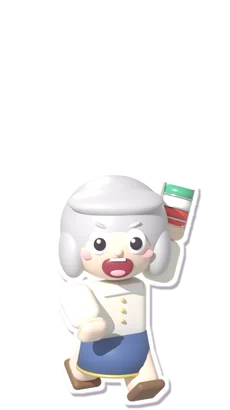
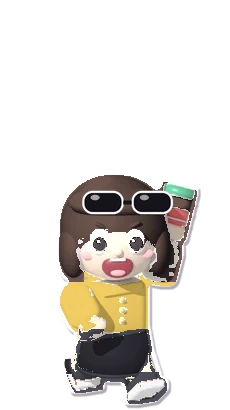
ป้าจิตร new look (dark hair, sunglasses up, yellow top, black trousers, white sneakers) + gag 12: she chases พี่เอิร์ธ in a red hatchback (preview ?jit=12)
Owner, 12 Nov 2026. Sprites recoloured locally (scripts/looks/jit_update.py); originals kept in scripts/looks/src/jit/.

Claude-Session: https://claude.ai/code/session_015Jf9R3gk28LtjQ9xD8o5vB

Changed region(s): [[0.2435, 0.4098, 0.8522, 0.9951]]

diff --git a/src/app/monitor/tv-gags.ts b/src/app/monitor/tv-gags.ts
@@ -2,14 +2,16 @@
 // @ts-nocheck — ported as-is from the approved prototype (scratchpad gags2.html,
 // owner 4 Nov 2026); plain DOM + GSAP, nothing typed flows in or out.
 //
-// พี่เอิร์ธ × ป้าจิตร (ภรรยาการ์ตูน, ปั้นใน Blender) — 11 แก็กพ่อบ้านใจกล้า แต่กลัวเมีย.
+// พี่เอิร์ธ × ป้าจิตร (ภรรยาการ์ตูน, ปั้นใน Blender) — 12 แก็กพ่อบ้านใจกล้า แต่กลัวเมีย.
+// 12 Nov 2026 (owner): ป้าจิตร's new look from a photo (scripts/looks/jit_update.py) and
+// gag 12 — she chases him in her red hatchback ("ขับรถตามได้บ้างนะ แกขับ swift แดง").
 // TvCast slots one in after every 4 ordinary antics; shuffled, no repeat until all 11
 // have played; gag 4 (จูงกลับบ้าน) only after 16:00. Works on a 1920×1080 stage
 // scaled to the screen.
 
 import gsap from "gsap";
 
-export const GAG_COUNT = 11;
+export const GAG_COUNT = 12;
 export const GAG_HOME_TIME = 3; // จูงกลับบ้าน
 export const EARTH_ID = "00000000-0000-0000-0000-000000000502";
 const TEAM_IDS = { cook: "00000000-0000-0000-0000-000000000503", pang: "00000000-0000-0000-0000-000000000505", nat: "00000000-0000-0000-0000-000000000504" };
@@ -45,6 +47,8 @@ const follow=(e,t,dx,dy)=>follows.push([e,t,dx,dy]);
 const tick=()=>follows.forEach(([e,t,dx,dy])=>gsap.set(e,{x:gsap.getProperty(t,'x')+dx,y:gsap.getProperty(t,'y')+dy}));
 gsap.ticker.add(tick);
 const BANG=`<svg viewBox="0 0 100 100" width="110" height="110"><polygon points="50,2 61,32 95,22 72,48 98,70 64,68 66,98 48,74 26,96 30,66 2,62 30,46 10,16 40,30" fill="#ffd36b" stroke="#1b1024" stroke-width="5" stroke-linejoin="round"/><text x="50" y="62" text-anchor="middle" font-size="38" font-weight="900" fill="#1b1024">!!</text></svg>`;
+// The red hatchback (drawn here, no badge): ป้าจิตร at the wheel behind the front window.
+const CAR=`<img class="drv" src="${JFACE}" alt=""><svg viewBox="0 0 600 260" width="600" height="260"><ellipse cx="305" cy="250" rx="270" ry="10" fill="rgba(0,0,0,.25)"/><path fill-rule="evenodd" fill="#d8232f" stroke="#1b1024" stroke-width="6" stroke-linejoin="round" d="M30,200 L30,150 Q34,118 72,112 L155,110 L212,38 Q222,28 242,28 L408,28 Q436,28 456,46 L512,110 Q574,118 586,148 L588,196 Q588,208 576,208 L42,208 Q30,208 30,200 Z M168,110 L224,40 L300,40 L300,110 Z M314,40 L402,40 Q424,40 440,56 L486,110 L314,110 Z"/><path d="M168,110 L224,40 L300,40 L300,110 Z M314,40 L402,40 Q424,40 440,56 L486,110 L314,110 Z" fill="rgba(170,215,255,.28)" stroke="#1b1024" stroke-width="5" stroke-linejoin="round"/><path d="M60,120 Q300,104 560,124" fill="none" stroke="rgba(255,255,255,.45)" stroke-width="6" stroke-linecap="round"/><path d="M306,112 L306,196 M168,112 L172,196" stroke="#1b1024" stroke-width="4" fill="none"/><rect x="330" y="128" width="34" height="9" rx="4" fill="#1b1024"/><rect x="190" y="128" width="30" height="9" rx="4" fill="#1b1024"/><path d="M478,104 L506,96 L512,112 Z" fill="#d8232f" stroke="#1b1024" stroke-width="4"/><ellipse cx="566" cy="140" rx="16" ry="12" fill="#fff6c8" stroke="#1b1024" stroke-width="4"/><rect x="30" y="128" width="16" height="26" rx="5" fill="#8a0f18" stroke="#1b1024" stroke-width="4"/><rect x="40" y="186" width="540" height="12" rx="6" fill="#2a2030"/><g><circle cx="140" cy="208" r="44" fill="#1b1024"/><g class="spin"><circle cx="140" cy="208" r="22" fill="#cfd3dc" stroke="#1b1024" stroke-width="4"/><path d="M140,188 L140,228 M120,208 L160,208" stroke="#1b1024" stroke-width="5"/></g></g><g><circle cx="470" cy="208" r="44" fill="#1b1024"/><g class="spin"><circle cx="470" cy="208" r="22" fill="#cfd3dc" stroke="#1b1024" stroke-width="4"/><path d="M470,188 L470,228 M450,208 L490,208" stroke="#1b1024" stroke-width="5"/></g></g></svg>`;
 const bubble=(txt,cls='')=>{const b=el('bubble '+cls);b.innerHTML=txt;return b};
 const pop=(b,t)=>tl.fromTo(b,{opacity:0,scale:0.4},{opacity:1,scale:1,duration:0.3,ease:'back.out(2.5)'},t);
 const hide=(arr,t)=>tl.to(arr,{opacity:0,duration:0.3},t);
@@ -170,6 +174,18 @@ const GAGS=[
  hide(ugh,7.3); tl.to(jar,{keyframes:[{x:W*0.54,y:FLOOR-SH-90,duration:0.4},{x:W*0.66-80,y:FLOOR-SH*0.4,duration:0.4,ease:'power1.in'}]},7.4);
  tl.call(()=>{gsap.set(pop1,{x:W*0.66-90,y:FLOOR-SH*0.55})},null,8.3).fromTo(pop1,{opacity:0,scale:0.4},{opacity:1,scale:1.6,duration:0.3,yoyo:true,repeat:1},8.3); pop(easy,8.4); hide([sign],8.4);
  pop(lose,9.3); hearts(j,9.0,5); hide([easy,lose,jar],10.8); tl.to([e,j],{opacity:0,duration:0.5},11.0);},
+// 12 ป้าจิตรขับรถตาม (red hatchback)
+()=>{const e=sprite(EAR.runA,-150), car=el('car',CAR), bang=el('bang',BANG), honk=bubble('ปี๊น ปี๊นนน!! 🚗💨'), call=bubble('พี่เอิร์ธ!! ขึ้นรถเดี๋ยวนี้!!'), ok=bubble('ครับ ๆ … ขึ้นแล้วครับ 🙇','sm'), ang=el('emo','💢'), at=el('emo','');
+ gsap.set(car,{x:-720,y:FLOOR-256}); follow(at,car,400,256); follow(bang,e,-10,-SH-70); follow(honk,car,330,-90); follow(call,car,300,-90); follow(ang,car,470,-20); follow(ok,e,-80,-SH-100);
+ const go=(on)=>car.classList.toggle('is-stop',!on);
+ tl.call(()=>cyc(e,RUN_A,RUN_B,0.08),null,0).to(e,{x:W*0.50,duration:1.7,ease:'power1.in'},0).to(e,{y:FLOOR-14,duration:0.08,yoyo:true,repeat:30},0); sweat(e,0.2,2.6); dust(e,0.1,2.6);
+ tl.call(()=>go(true),null,1.0).to(car,{x:-40,duration:1.3,ease:'power2.out'},1.0).to(car,{y:FLOOR-262,duration:0.12,yoyo:true,repeat:9},1.0); dust(at,1.0,1.6,-370);
+ pop(honk,1.5); pop(bang,1.9); tl.to(e,{x:W*0.80,duration:1.6,ease:'none'},1.8).to(e,{y:FLOOR-14,duration:0.08,yoyo:true,repeat:20},1.8);
+ hide(honk,2.9); tl.to(car,{x:W*0.80-660,duration:1.5,ease:'power2.inOut'},2.8); pop(call,3.2); tl.to(ang,{opacity:1,duration:0.2},3.2).to(ang,{scale:1.3,duration:0.18,yoyo:true,repeat:7},3.3);
+ tl.call(()=>{stopCyc();show(e,EAR['stand-cry']);go(false)},null,4.4); sweat(e,4.4,2.0); tl.to(e,{x:'+=6',duration:0.05,yoyo:true,repeat:12},4.5); hide([call,ang,bang],5.6); pop(ok,5.4);
+ tl.call(()=>cyc(e,EAR.walkA,EAR.walkB,0.24),null,6.4).to(e,{x:W*0.80-330,duration:0.9,ease:'none'},6.4).to(e,{opacity:0,duration:0.3},7.0); hide(ok,6.8);
+ hearts(at,7.4,6); tl.call(()=>{stopCyc();go(true)},null,7.6).to(car,{x:W+200,duration:2.0,ease:'power2.in'},7.8); dust(at,7.8,2.0,-370);
+ tl.to(car,{opacity:0,duration:0.3},9.8);},
 ];
 
   tl = gsap.timeline({ onComplete: () => { finish(); onDone && onDone(); } });

diff --git a/src/app/monitor/TvCast.tsx b/src/app/monitor/TvCast.tsx
@@ -44,6 +44,9 @@ const TIME_WINDOWS: Record<string, { from: number; to: number; every: number; fr
   T3: { from: 13 * 60, to: 16 * 60 + 30, every: 40, fri: true }, // ศุกร์แล้ว
 };
 const GAG_WITH_TEAM = 7; // น้องชวนไปต่อ — needs กุ๊ก แป้ง นัท on screen
+/** ป้าจิตรขับรถตาม (12 Nov 2026): preview only (/tv?jit=12) until the owner OKs it. */
+const GAG_CAR = 11;
+const GAG_CAR_LIVE = false;
 const TEAM_FOR_GAG = ["00000000-0000-0000-0000-000000000503", "00000000-0000-0000-0000-000000000505", "00000000-0000-0000-0000-000000000504"];
 const PAI = "00000000-0000-0000-0000-000000000501";
 // Seniors are never the butt of a gag (chased, crying…): พี่ไป๋ and the new head of section (12 Nov 2026).
@@ -221,7 +224,7 @@ export function TvCast({ still, people, off, events = [], festival = null }: { s
     const ACTS = [walkTicker, runAcross, peekCard, climbCard, hang, pair];
     const q = new URLSearchParams(window.location.search);
     // /tv?jit=fast — preview: a gag every time, any hour.
-    // /tv?jit=3 — that gag (1–11) over and over.
+    // /tv?jit=3 — that gag (1–12) over and over.
     const jitOnly = /^\d+$/.test(q.get("jit") ?? "") ? Number(q.get("jit")) - 1 : -1;
     const jitFast = q.get("jit") === "fast" || jitOnly >= 0;
     // /tv?scene=fast — every anime scene in turn · /tv?scene=B3 — that one, over and over.
@@ -365,7 +368,7 @@ export function TvCast({ still, people, off, events = [], festival = null }: { s
       if (jitOnly >= 0 && jitOnly < GAG_COUNT) return jitOnly;
       const late = bangkokHour() >= 16;
       const team = TEAM_FOR_GAG.every((id) => cast.includes(id));
-      const ok = (g: number) => (g !== GAG_HOME_TIME || late || preview) && (g !== GAG_WITH_TEAM || team);
+      const ok = (g: number) => (g !== GAG_HOME_TIME || late || preview) && (g !== GAG_WITH_TEAM || team) && (g !== GAG_CAR || GAG_CAR_LIVE || preview);
       if (!gagBag.some(ok)) gagBag = Array.from({ length: GAG_COUNT }, (_, i) => i).sort(() => Math.random() - 0.5);
       const i = gagBag.findIndex(ok);
       if (i < 0) return null;

diff --git a/src/app/monitor/monitor-board.css b/src/app/monitor/monitor-board.css
@@ -338,6 +338,12 @@
 .tv-gag .sweat{position:absolute;left:0;top:0;width:22px;height:30px;background:radial-gradient(circle at 40% 35%,#fff 0 18%,#8fd3ff 20% 100%);border-radius:50% 50% 50% 50%/60% 60% 40% 40%;border:3px solid #1b1024}
 .tv-gag .puff{position:absolute;left:0;top:0;width:46px;height:46px;border-radius:50%;background:#e8dcef;border:3px solid #1b1024}
 .tv-gag .emo{position:absolute;left:0;top:0;font-size:56px;opacity:0}
+.tv-gag .car{position:absolute;left:0;top:0;width:600px;height:260px}
+.tv-gag .car svg{position:absolute;left:0;top:0}
+.tv-gag .car .drv{position:absolute;left:338px;top:28px;width:112px;height:112px}
+.tv-gag .car .spin{transform-box:fill-box;transform-origin:center;animation:tvCarSpin .3s linear infinite}
+.tv-gag .car.is-stop .spin{animation-play-state:paused}
+@keyframes tvCarSpin{to{transform:rotate(360deg)}}
 .tv-gag .tif{position:absolute;left:0;top:0;width:54px;height:68px;background-size:contain;background-repeat:no-repeat;opacity:0}
 .tv-gag .shadow{position:absolute;left:0;top:0;width:1100px;height:1960px;background-size:contain;background-repeat:no-repeat;background-position:50% 100%;filter:brightness(0) blur(6px);opacity:0;transform-origin:50% 100%;top:-900px}
 .tv-gag .card{position:absolute;left:0;top:0;width:190px;padding:12px;background:#fff;border:5px solid #1b1024;border-radius:18px;box-shadow:6px 6px 0 #1b1024;text-align:center;color:#1b1024;font-weight:900;display:flex;flex-direction:column;align-items:center;gap:2px;opacity:0}.tv-gag .card b{font-size:26px}.tv-gag .card span{font-size:30px;color:#c0182c}

diff --git a/scripts/looks/jit_update.py b/scripts/looks/jit_update.py
@@ -1,0 +1,110 @@
+"""ป้าจิตร new look (owner, 12 Nov 2026, from a photo): dark shoulder-length hair,
+sunglasses pushed up on the head, yellow top, black trousers, white sneakers.
+Recolours the Blender sprites in scripts/looks/src/jit/ → public/cast/jit/ (local only).
+Usage: python3 scripts/looks/jit_update.py [outdir]"""
+import sys, glob, os
+import numpy as np
+from PIL import Image, ImageDraw
+from scipy import ndimage
+
+SRC = "scripts/looks/src/jit"
+OUT = sys.argv[1] if len(sys.argv) > 1 else "public/cast/jit"
+HAIR_DARK, HAIR_LIGHT = np.array([28, 22, 24]), np.array([110, 86, 78])
+TOP = np.array([236, 200, 96])        # soft yellow
+PANTS_DARK, PANTS_LIGHT = np.array([18, 18, 22]), np.array([78, 78, 88])
+SHOE = np.array([246, 246, 248])
+
+def tint(rgb, L, lo, hi, l0=150, l1=255):
+    t = np.clip((L - l0) / (l1 - l0), 0, 1)[..., None]
+    return lo + (hi - lo) * t
+
+def process(path, out):
+    im = np.array(Image.open(path).convert("RGBA")).astype(float)
+    rgb, A = im[..., :3], im[..., 3]
+    solid = A > 0
+    dist = ndimage.distance_transform_edt(solid)
+    inner = dist > 5.2                      # keep the white sticker outline
+    R, G, B = rgb[..., 0], rgb[..., 1], rgb[..., 2]
+    L = rgb.mean(-1)
+    sat = rgb.max(-1) - rgb.min(-1)
+    neutral = inner & (sat < 22) & (L > 120)
+    blue = inner & (B > R + 25) & (B > G + 8)
+    brown = inner & (R > G + 12) & (G > B) & (L < 150) & (sat > 25)
+    dark = inner & (L < 70)
+    H, W = A.shape
+    ys = np.arange(H)[:, None].repeat(W, 1)
+    out_rgb = rgb.copy()
+    face = os.path.basename(path).startswith("face")
+    # eyes: the dark blobs in the top part → chin line splits hair from top
+    eyeish = inner & (L < 115) & (sat < 40)
+    top_half = eyeish & (ys < (np.argmax(solid.any(1)) + (H - np.argmax(solid.any(1))) * (0.62 if face else 0.36)))
+    if top_half.any():
+        eye_y = int(np.median(np.nonzero(top_half)[0]))
+    else:
+        eye_y = int(H * 0.55)
+    chin = eye_y + (int(H * 0.34) if face else 34)
+    # face: an ellipse round the two eyes (skin and its white highlights stay as they are)
+    lab, n = ndimage.label(top_half)
+    face_m = np.zeros_like(solid)
+    blobs = [ndimage.center_of_mass(lab == k) for k in range(1, n + 1) if (lab == k).sum() >= 6]
+    pairs = [(a_, b_) for i, a_ in enumerate(blobs) for b_ in blobs[i + 1:] if abs(a_[0] - b_[0]) < 8 and (0.10 * W) < abs(a_[1] - b_[1]) < (0.45 * W)]
+    if pairs:
+        (ey1, ex1), (ey2, ex2) = min(pairs, key=lambda pr: pr[0][0] + pr[1][0])
+        dx = abs(ex2 - ex1)
+        cx, cy = (ex1 + ex2) / 2, (ey1 + ey2) / 2 + dx * 0.12
+        rx, ry = dx * 1.15, dx * 0.85
+        xs = np.arange(W)[None, :].repeat(H, 0)
+        eye_y = int(cy)
+        chin = eye_y + (int(H * 0.34) if face else 34)
+        ell = ((xs - cx) / rx) ** 2 + ((ys - cy) / ry) ** 2 <= 1
+        ell_in = ((xs - cx) / (rx * 0.8)) ** 2 + ((ys - cy) / (ry * 0.85)) ** 2 <= 1
+        face_m = ((ell & (sat >= 6)) | (ell_in & (L >= 247))) & (ys >= cy - dx * 0.55)  # skin + its highlights, below the fringe
+        collar = (np.abs(xs - cx) < dx * 0.95) & (ys >= cy + dx * 0.62)
+    else:
+        collar = np.zeros_like(solid)
+    hair = inner & (sat < 9) & (L > 120) & (ys < chin) & ~face_m & ~collar
+    out_rgb[hair] = tint(rgb, L, HAIR_DARK, HAIR_LIGHT, 170, 250)[hair]
+    y0 = y1 = H
+    if blue.any():
+        by = np.nonzero(blue)[0]
+        y0, y1 = by.min(), by.max()
+    top = inner & (sat < 24) & (L > 120) & (ys < y0) & ((ys >= chin) | (collar & (sat < 9) & ~face_m))
+    lab, n = ndimage.label(top)
+    if n:  # drop specks (highlights on the hands)
+        sizes = ndimage.sum(top, lab, range(1, n + 1))
+        top = np.isin(lab, 1 + np.nonzero(sizes >= 40)[0])
+    out_rgb[top] = (TOP * np.clip(L / 248, 0.55, 1.03)[..., None])[top]
+    if blue.any():
+        # skirt + hem → trousers; legs below → trousers; brown shoes → white sneakers
+        hem = inner & (ys >= y0 - 3) & (ys <= y1 + 3) & ~blue & (((sat > 30) & (R > B)) | ((sat < 24) & ndimage.binary_dilation(blue, iterations=4)))
+        shoes = brown & (ys > y1)
+        shoes_d = ndimage.binary_dilation(shoes, iterations=1)
+        legs = blue | hem | (inner & (ys > y1 - 2) & ~shoes_d & ~dark)
+        out_rgb[legs] = tint(rgb, L, PANTS_DARK, PANTS_LIGHT, 60, 250)[legs]
+        out_rgb[shoes] = (SHOE * np.clip(L / 120, 0.72, 1.0)[..., None])[shoes]
+    img = Image.fromarray(np.dstack([np.clip(out_rgb, 0, 255), A]).astype(np.uint8), "RGBA")
+    # sunglasses pushed up on the head
+    if hair.any():
+        hy, hx = np.nonzero(hair)
+        x0, x1, ytop = hx.min(), hx.max(), hy.min()
+        w = x1 - x0
+        cx, cy = (x0 + x1) / 2, ytop + w * 0.20
+        S = 4
+        big = Image.new("RGBA", (W * S, H * S), (0, 0, 0, 0))
+        d = ImageDraw.Draw(big)
+        lw, lh, gap = w * 0.30, w * 0.17, w * 0.06
+        for sx in (-1, 1):
+            lx = cx + sx * (gap / 2 + lw / 2)
+            box = [(lx - lw / 2) * S, (cy - lh / 2) * S, (lx + lw / 2) * S, (cy + lh / 2) * S]
+            d.rounded_rectangle(box, radius=lh * 0.45 * S, fill=(20, 20, 26, 255), outline=(250, 250, 250, 255), width=max(2, int(w * 0.018 * S)))
+            d.ellipse([(lx - lw * 0.30) * S, (cy - lh * 0.32) * S, (lx - lw * 0.08) * S, (cy - lh * 0.10) * S], fill=(255, 255, 255, 120))
+        d.line([((cx - gap / 2) * S, cy * S), ((cx + gap / 2) * S, cy * S)], fill=(20, 20, 26, 255), width=max(3, int(w * 0.03 * S)))
+        img.alpha_composite(big.resize((W, H), Image.LANCZOS))
+    img.save(out, "WEBP", quality=92, method=6)
+
+os.makedirs(OUT, exist_ok=True)
+for p in sorted(glob.glob(f"{SRC}/*.webp")):
+    if os.path.basename(p).startswith("tiffin"):
+        continue  # the lunch box prop: unchanged
+    process(p, os.path.join(OUT, os.path.basename(p)))
+    print("ok", os.path.basename(p))
